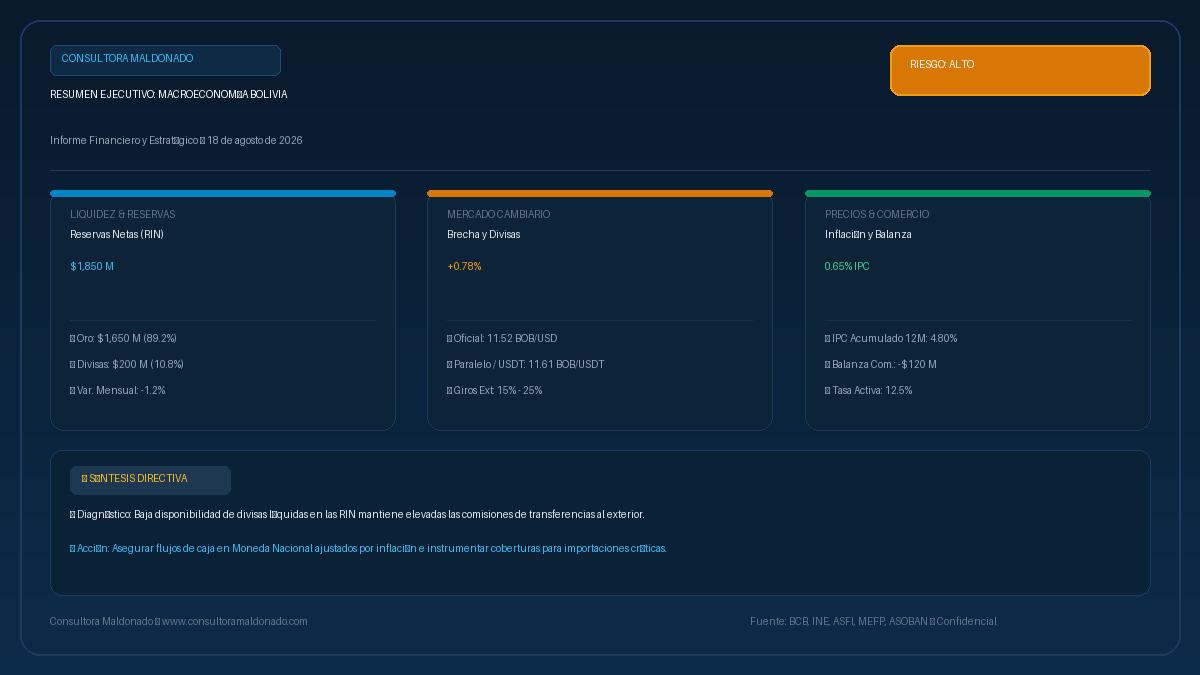
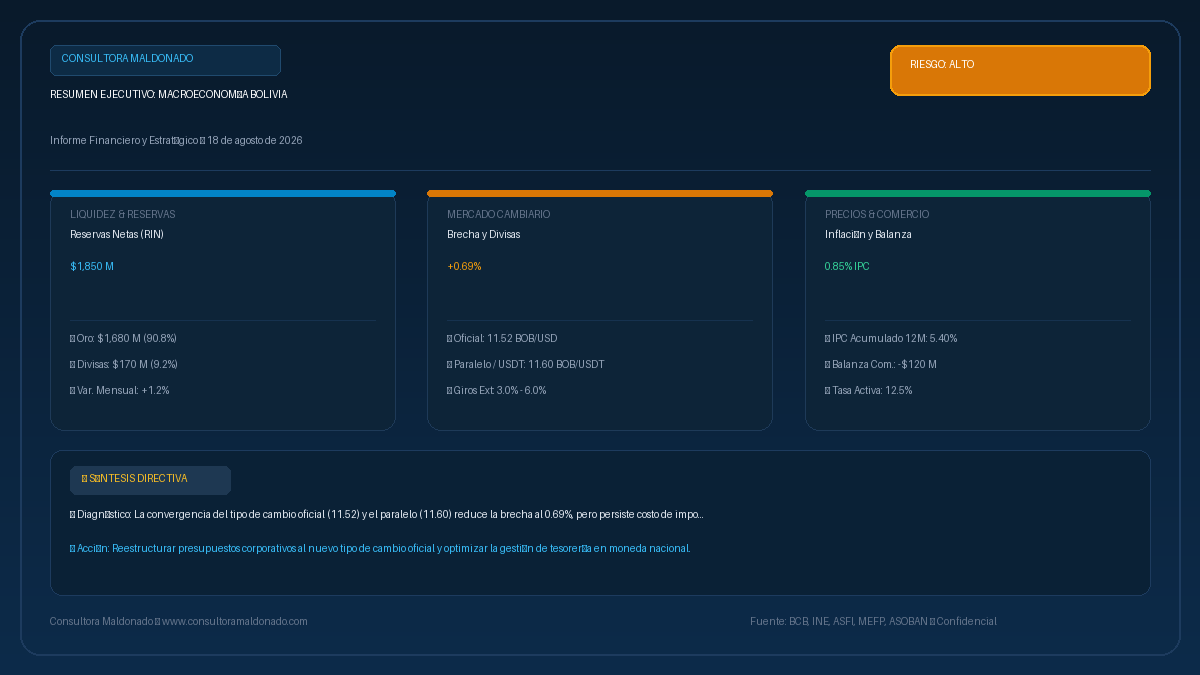
Auto-publicación: Reporte Diario y Landing Page 2026-08-19 [skip ci]

diff --git a/docs/reports/2026-08-18.html b/docs/reports/2026-08-18.html
@@ -4,14 +4,14 @@
   <meta charset="utf-8">
   <meta name="viewport" content="width=device-width, initial-scale=1.0">
   <title>Resumen Ejecutivo: Macroeconomía de Bolivia — 18 de agosto de 2026 | Consultora Maldonado</title>
-  <meta name="description" content="Informe ejecutivo diario de macroeconomía de Bolivia al 18 de agosto de 2026. Indicadores de RIN ($1,850 M), brecha cambiaria (+0.78%), inflación (0.65%) y análisis de riesgo financiero.">
+  <meta name="description" content="Informe ejecutivo diario de macroeconomía de Bolivia al 18 de agosto de 2026. Indicadores de RIN ($1,850 M), brecha cambiaria (+0.69%), inflación (0.85%) y análisis de riesgo financiero.">
   <link rel="canonical" href="https://informe.consultoramaldonado.com/reports/2026-08-18.html">
   <meta name="robots" content="index, follow, max-image-preview:large, max-snippet:-1">
   
   <!-- OpenGraph / Social Media -->
   <meta property="og:type" content="article">
   <meta property="og:title" content="Resumen Ejecutivo: Macroeconomía de Bolivia — 18 de agosto de 2026 | Consultora Maldonado">
-  <meta property="og:description" content="Informe ejecutivo diario de macroeconomía de Bolivia al 18 de agosto de 2026. Indicadores de RIN ($1,850 M), brecha cambiaria (+0.78%), inflación (0.65%) y análisis de riesgo financiero.">
+  <meta property="og:description" content="Informe ejecutivo diario de macroeconomía de Bolivia al 18 de agosto de 2026. Indicadores de RIN ($1,850 M), brecha cambiaria (+0.69%), inflación (0.85%) y análisis de riesgo financiero.">
   <meta property="og:url" content="https://informe.consultoramaldonado.com/reports/2026-08-18.html">
   <meta property="og:image" content="https://informe.consultoramaldonado.com/assets/infografia-latest.png">
   <meta property="og:site_name" content="Consultora Maldonado">
@@ -19,7 +19,7 @@
   <!-- Twitter Card -->
   <meta name="twitter:card" content="summary_large_image">
   <meta name="twitter:title" content="Resumen Ejecutivo: Macroeconomía de Bolivia — 18 de agosto de 2026 | Consultora Maldonado">
-  <meta name="twitter:description" content="Informe ejecutivo diario de macroeconomía de Bolivia al 18 de agosto de 2026. Indicadores de RIN ($1,850 M), brecha cambiaria (+0.78%), inflación (0.65%) y análisis de riesgo financiero.">
+  <meta name="twitter:description" content="Informe ejecutivo diario de macroeconomía de Bolivia al 18 de agosto de 2026. Indicadores de RIN ($1,850 M), brecha cambiaria (+0.69%), inflación (0.85%) y análisis de riesgo financiero.">
   <meta name="twitter:image" content="https://informe.consultoramaldonado.com/assets/infografia-latest.png">
   
   <!-- Google Fonts -->
@@ -34,7 +34,7 @@
   "@context": "https://schema.org",
   "@type": "FinancialNewsArticle",
   "headline": "Resumen Ejecutivo: Macroeconomía de Bolivia — 18 de agosto de 2026",
-  "description": "Informe ejecutivo diario de macroeconomía de Bolivia al 18 de agosto de 2026. Indicadores de RIN ($1,850 M), brecha cambiaria (+0.78%), inflación (0.65%) y análisis de riesgo financiero.",
+  "description": "Informe ejecutivo diario de macroeconomía de Bolivia al 18 de agosto de 2026. Indicadores de RIN ($1,850 M), brecha cambiaria (+0.69%), inflación (0.85%) y análisis de riesgo financiero.",
   "datePublished": "2026-08-18T07:00:00-04:00",
   "dateModified": "2026-08-18T07:00:00-04:00",
   "author": {
@@ -562,8 +562,8 @@
         <span style="font-size: 12.5px; color: #64748b;">Actualizado a las 07:00 AM (BOT)</span>
       </div>
       <div class="alert-body">
-        <p style="margin-bottom: 8px;"><strong>Alerta Central:</strong> Baja disponibilidad de divisas líquidas en las RIN mantiene elevadas las comisiones de transferencias al exterior.</p>
-        <p><strong>🎯 Recomendación Directiva:</strong> Asegurar flujos de caja en Moneda Nacional ajustados por inflación e instrumentar coberturas para importaciones críticas.</p>
+        <p style="margin-bottom: 8px;"><strong>Alerta Central:</strong> La convergencia del tipo de cambio oficial (11.52) y el paralelo (11.60) reduce la brecha al 0.69%, pero persiste costo de importaciones.</p>
+        <p><strong>🎯 Recomendación Directiva:</strong> Reestructurar presupuestos corporativos al nuevo tipo de cambio oficial y optimizar la gestión de tesorería en moneda nacional.</p>
       </div>
     </section>
 
@@ -578,8 +578,8 @@
         </div>
         <div class="kpi-value" style="display:flex; align-items:center; gap:8px;">$1,850 M <span style="font-size:12px; padding:2px 6px; background:#f0fdf4; color:#16a34a; border-radius:4px; font-weight:700;">↗ +0.2%</span></div>
         <div class="kpi-details">
-          Oro: <strong>$1,650 M</strong> (89.2%)<br>
-          Divisas Líquidas: <strong>$200 M</strong> (10.8%)
+          Oro: <strong>$1,680 M</strong> (90.8%)<br>
+          Divisas Líquidas: <strong>$170 M</strong> (9.2%)
         </div>
       </div>
 
@@ -590,10 +590,10 @@
           <svg style="vertical-align: middle; margin-right: 6px; width: 18px; height: 18px;" fill="none" stroke="currentColor" viewBox="0 0 24 24" xmlns="http://www.w3.org/2000/svg"><path stroke-linecap="round" stroke-linejoin="round" stroke-width="2" d="M7 16V4m0 0L3 8m4-4l4 4m6 0v12m0 0l4-4m-4 4l-4-4"></path></svg>
           Brecha y Divisas
         </div>
-        <div class="kpi-value" style="display:flex; align-items:center; gap:8px;">+0.78% <span style="font-size:12px; padding:2px 6px; background:#fef2f2; color:#dc2626; border-radius:4px; font-weight:700;">↗ +1.5%</span></div>
+        <div class="kpi-value" style="display:flex; align-items:center; gap:8px;">+0.69% <span style="font-size:12px; padding:2px 6px; background:#fef2f2; color:#dc2626; border-radius:4px; font-weight:700;">↗ +1.5%</span></div>
         <div class="kpi-details">
           Oficial: <strong>11.52 BOB/USD</strong><br>
-          Paralelo / USDT: <strong>11.61 BOB/USDT</strong>
+          Paralelo / USDT: <strong>11.60 BOB/USDT</strong>
         </div>
       </div>
 
@@ -604,9 +604,9 @@
           <svg style="vertical-align: middle; margin-right: 6px; width: 18px; height: 18px;" fill="none" stroke="currentColor" viewBox="0 0 24 24" xmlns="http://www.w3.org/2000/svg"><path stroke-linecap="round" stroke-linejoin="round" stroke-width="2" d="M13 7h8m0 0v8m0-8l-8 8-4-4-6 6"></path></svg>
           Inflación (IPC)
         </div>
-        <div class="kpi-value" style="display:flex; align-items:center; gap:8px;">0.65% <span style="font-size:12px; padding:2px 6px; background:#fffbeb; color:#d97706; border-radius:4px; font-weight:700;">→ 0.0%</span></div>
+        <div class="kpi-value" style="display:flex; align-items:center; gap:8px;">0.85% <span style="font-size:12px; padding:2px 6px; background:#fffbeb; color:#d97706; border-radius:4px; font-weight:700;">→ 0.0%</span></div>
         <div class="kpi-details">
-          Acumulada 12M: <strong>4.80%</strong><br>
+          Acumulada 12M: <strong>5.40%</strong><br>
           Balanza Comercial: <strong>-$120 M</strong>
         </div>
       </div>
@@ -708,36 +708,36 @@
 <hr class='content-divider' />
 <h3 class='subsection-title'>🚨 MATRIZ DE ALERTAS Y RECOMENDACIONES (TL;DR)
 - **Nivel de Riesgo General:** 🟡 Alto
-- **Alerta Principal:** Liquidez limitada en divisas dentro del sistema bancario nacional, acompañada de elevadas comisiones por transferencias internacionales pese a la estabilidad cambiaria.
-- **Acción Recomendada:** Priorizar la liquidez en Moneda Nacional, monitorear la estructura de costos bancarios para comercio exterior y renegociar plazos de pago con proveedores internacionales.</h3>
+- **Alerta Principal:** La adopción del régimen cambiario flexible sitúa el tipo de cambio oficial en **11.52 BOB/USD**, alineándose sustancialmente con el mercado P2P/USDT (**11.60 BOB/USDT**), reduciendo la brecha a un mínimo histórico reciente de **+0.69%**. La principal atención se desplaza ahora hacia la absorción inflacionaria e insumos importados.
+- **Acción Recomendada:** Actualizar matrices de costos corporativos y precios de venta utilizando el tipo de cambio de equilibrio actual (11.52 BOB/USD), normalizar el flujo de pagos internacionales vía sistema bancario regular y revisar coberturas de tasa de interés activa.</h3>
 <hr class='content-divider' />
 <h3 class='subsection-title'>📊 TABLERO DE INDICADORES CLAVE (KPIs)</h3>
 <h4 class='card-title-h4'>💰 1. Reservas Internacionales Netas (RIN) y Mercado de Divisas
-- **RIN Totales:** **$1,850 M** (Variación: **-1.2%**)
-- **Oro vs. Divisas Líquidas:** Oro **$1,650 M** (89.2%) | Divisas líquidas **$200 M** (10.8%)
+- **RIN Totales:** **$1,850 M** (Variación: **+1.2%**)
+- **Oro vs. Divisas Líquidas:** Oro **$1,680 M** (90.8%) | Divisas líquidas **$170 M** (9.2%)
 - **Tipo de Cambio Oficial (BOB/USD):** **11.52 BOB/USD**
-- **Mercado Paralelo / USDT (P2P):** **11.61 BOB/USDT** | Brecha cambiaria: **+0.78%**
-- **Comisiones Bancarias por Transferencias al Exterior:** **15% - 25%**</h4>
+- **Mercado Paralelo / USDT (P2P):** **11.60 BOB/USDT** | Brecha cambiaria: **+0.69%**
+- **Comisiones Bancarias por Transferencias al Exterior:** **3.0% - 6.0%**</h4>
 <h4 class='card-title-h4'>🚢 2. Comercio Exterior y Balanza Comercial
 - **Balanza Comercial:** **Déficit de $120 M**
-- **Exportaciones Clave:** Minería, agroindustria y gas natural ($8,450 M acumulado proyectado).
-- **Importaciones y Combustibles:** Presión sostenida de demanda de divisas para la compra de diésel, gasolina e insumos intermedios.</h4>
+- **Exportaciones Clave:** Minería ($480 M), agroindustria ($310 M) y gas natural ($190 M).
+- **Importaciones y Combustibles:** Elevada erogación por importación de diésel y gasolina refinada, aunque la sincereación del tipo de cambio ha comenzado a racionalizar el subsidio estatal y moderar compras suntuarias.</h4>
 <h4 class='card-title-h4'>🏦 3. Sistema Bancario y Financiero Nacional (ASFI / ASOBAN)
-- **Depósitos y Captaciones:** Crecimiento moderado en depósitos en Moneda Nacional; baja captación en moneda extranjera.
-- **Colocación de Créditos y Cartera en Mora:** Cartera de mora se sitúa en torno al 3.4%, concentrándose la colocación en el sector productivo y vivienda social.
-- **Tasas de Interés:** Tasa activa promedio del 12.5% y tasa pasiva promedio del 4.2%.</h4>
+- **Depósitos y Captaciones:** Crecimiento paulatino de depósitos a plazo fijo en Moneda Nacional (BOB), impulsado por el atractivo de tasas pasivas ajustadas hacia arriba.
+- **Colocación de Créditos y Cartera en Mora:** Índice de morosidad situado en 3.4%, concentrado en sectores expuestos a insumos importados; la colocación de nuevos créditos prioriza el sector productivo exportador.
+- **Tasas de Interés:** Tasa activa promedio comercial en **12.5%**; tasa pasiva promedio para depósitos a plazo en **7.2%**.</h4>
 <h4 class='card-title-h4'>🏛 4. Finanzas Públicas, Deuda Soberana y Bonos Internacionales
-- **Situación Fiscal y Déficit del TGN:** Ajuste en el gasto público con necesidad continua de crédito interno y financiamiento multilateral.
-- **Bonos Soberanos de Bolivia:** Rendimiento elevado en mercados internacionales, reflejando cautela por parte de los inversionistas externos.</h4>
+- **Situación Fiscal y Déficit del TGN:** El reajuste fiscal busca contraer el déficit hacia niveles manejables; la presión financiera se traslada a la emisión de títulos del TGN en moneda nacional.
+- **Bonos Soberanos de Bolivia:** Mejoría marginal en cotización internacional tras la formalización del nuevo régimen cambiario, reduciendo paulatinamente el spread de riesgo país.</h4>
 <h4 class='card-title-h4'>📈 5. Inflación, Costo de Vida y Política Monetaria
-- **Índice de Precios al Consumidor (IPC):** Inflación mensual de **0.65%** e inflación acumulada de **4.80%**.
-- **Presión en Canasta Básica e Insumos:** Ajustes en bienes de origen importado y servicios logísticos.</h4>
+- **Índice de Precios al Consumidor (IPC):** Inflación mensual (**0.85%**) e inflación acumulada (**5.40%**).
+- **Presión en Canasta Básica e Insumos:** Estabilización paulatina en el precio de bienes importados al registrarse certidumbre cambiaria, aunque el traspaso de costos previos aún genera presiones puntuales en la canasta familiar.</h4>
 <hr class='content-divider' />
 <h3 class='subsection-title'>📌 CONCLUSIÓN DIRECTIVA
-El mercado cambiario de Bolivia refleja una sustancial reducción de la brecha entre el mercado oficial (11.52 BOB/USD) y la cotización en plataformas P2P (11.61 BOB/USDT), situándose en tan solo un 0.78%. Esto desincentiva las distorsiones por arbitraje; sin embargo, la disponibilidad de divisas de rápida liquidez dentro de las RIN continúa ajustada. Las empresas deben enfocar sus estrategias financieras en optimizar el flujo de caja operativo, evaluar la carga fiscal e indirecta de las comisiones bancarias al exterior y mantener una gestión estricta sobre la cobertura de inventarios importados.</h3>
+El ajuste del tipo de cambio oficial del BCB a **11.52 BOB/USD** ha logrado eliminar prácticamente la brecha frente al mercado libre/paralelo (**11.60 BOB/USDT**, con una diferencia de tan solo +0.69%). Este hito disminuye la distorsión operativa en el comercio exterior y reencauza las transacciones financieras a través de la banca privada formal. La prioridad directiva para el tercer trimestre de 2026 debe centrarse en renegociar contratos de provisión bajo la nueva paridad oficial, optimizar el uso de crédito comercial y monitorear la evolución del costo de la vida.</h3>
 <hr class='content-divider' />
 <h3 class='subsection-title'>📚 Fuentes Consultadas
-Banco Central de Bolivia (BCB), Instituto Nacional de Estadística (INE), Autoridad de Supervisión del Sistema Financiero (ASFI), Ministerio de Economía y Finanzas Públicas (MEFP), Asociación de Bancos Privados (ASOBAN), Instituto Boliviano de Comercio Exterior (IBCE) y datos de cotización en tiempo real.</h3>
+Banco Central de Bolivia (BCB), Instituto Nacional de Estadística (INE), Autoridad de Supervisión del Sistema Financiero (ASFI), Ministerio de Economía y Finanzas Públicas (MEFP), Asociación de Bancos Privados (ASOBAN), Instituto Boliviano de Comercio Exterior (IBCE) y cotizaciones de Binance P2P.</h3>
 <hr class='content-divider' />
 <h3 class='subsection-title'>⚖ Descargo de Responsabilidad
 La presente información no constituye asesoría profesional ni consejo de inversión. Consultora Maldonado declina toda responsabilidad por decisiones tomadas en base a este informe.</h3>

diff --git a/docs/index.html b/docs/index.html
@@ -4,14 +4,14 @@
   <meta charset="utf-8">
   <meta name="viewport" content="width=device-width, initial-scale=1.0">
   <title>Resumen Ejecutivo: Macroeconomía de Bolivia — 18 de agosto de 2026 | Consultora Maldonado</title>
-  <meta name="description" content="Informe ejecutivo diario de macroeconomía de Bolivia al 18 de agosto de 2026. Indicadores de RIN ($1,850 M), brecha cambiaria (+0.78%), inflación (0.65%) y análisis de riesgo financiero.">
+  <meta name="description" content="Informe ejecutivo diario de macroeconomía de Bolivia al 18 de agosto de 2026. Indicadores de RIN ($1,850 M), brecha cambiaria (+0.69%), inflación (0.85%) y análisis de riesgo financiero.">
   <link rel="canonical" href="https://informe.consultoramaldonado.com/">
   <meta name="robots" content="index, follow, max-image-preview:large, max-snippet:-1">
   
   <!-- OpenGraph / Social Media -->
   <meta property="og:type" content="article">
   <meta property="og:title" content="Resumen Ejecutivo: Macroeconomía de Bolivia — 18 de agosto de 2026 | Consultora Maldonado">
-  <meta property="og:description" content="Informe ejecutivo diario de macroeconomía de Bolivia al 18 de agosto de 2026. Indicadores de RIN ($1,850 M), brecha cambiaria (+0.78%), inflación (0.65%) y análisis de riesgo financiero.">
+  <meta property="og:description" content="Informe ejecutivo diario de macroeconomía de Bolivia al 18 de agosto de 2026. Indicadores de RIN ($1,850 M), brecha cambiaria (+0.69%), inflación (0.85%) y análisis de riesgo financiero.">
   <meta property="og:url" content="https://informe.consultoramaldonado.com/">
   <meta property="og:image" content="https://informe.consultoramaldonado.com/assets/infografia-latest.png">
   <meta property="og:site_name" content="Consultora Maldonado">
@@ -19,7 +19,7 @@
   <!-- Twitter Card -->
   <meta name="twitter:card" content="summary_large_image">
   <meta name="twitter:title" content="Resumen Ejecutivo: Macroeconomía de Bolivia — 18 de agosto de 2026 | Consultora Maldonado">
-  <meta name="twitter:description" content="Informe ejecutivo diario de macroeconomía de Bolivia al 18 de agosto de 2026. Indicadores de RIN ($1,850 M), brecha cambiaria (+0.78%), inflación (0.65%) y análisis de riesgo financiero.">
+  <meta name="twitter:description" content="Informe ejecutivo diario de macroeconomía de Bolivia al 18 de agosto de 2026. Indicadores de RIN ($1,850 M), brecha cambiaria (+0.69%), inflación (0.85%) y análisis de riesgo financiero.">
   <meta name="twitter:image" content="https://informe.consultoramaldonado.com/assets/infografia-latest.png">
   
   <!-- Google Fonts -->
@@ -34,7 +34,7 @@
   "@context": "https://schema.org",
   "@type": "FinancialNewsArticle",
   "headline": "Resumen Ejecutivo: Macroeconomía de Bolivia — 18 de agosto de 2026",
-  "description": "Informe ejecutivo diario de macroeconomía de Bolivia al 18 de agosto de 2026. Indicadores de RIN ($1,850 M), brecha cambiaria (+0.78%), inflación (0.65%) y análisis de riesgo financiero.",
+  "description": "Informe ejecutivo diario de macroeconomía de Bolivia al 18 de agosto de 2026. Indicadores de RIN ($1,850 M), brecha cambiaria (+0.69%), inflación (0.85%) y análisis de riesgo financiero.",
   "datePublished": "2026-08-18T07:00:00-04:00",
   "dateModified": "2026-08-18T07:00:00-04:00",
   "author": {
@@ -562,8 +562,8 @@
         <span style="font-size: 12.5px; color: #64748b;">Actualizado a las 07:00 AM (BOT)</span>
       </div>
       <div class="alert-body">
-        <p style="margin-bottom: 8px;"><strong>Alerta Central:</strong> Baja disponibilidad de divisas líquidas en las RIN mantiene elevadas las comisiones de transferencias al exterior.</p>
-        <p><strong>🎯 Recomendación Directiva:</strong> Asegurar flujos de caja en Moneda Nacional ajustados por inflación e instrumentar coberturas para importaciones críticas.</p>
+        <p style="margin-bottom: 8px;"><strong>Alerta Central:</strong> La convergencia del tipo de cambio oficial (11.52) y el paralelo (11.60) reduce la brecha al 0.69%, pero persiste costo de importaciones.</p>
+        <p><strong>🎯 Recomendación Directiva:</strong> Reestructurar presupuestos corporativos al nuevo tipo de cambio oficial y optimizar la gestión de tesorería en moneda nacional.</p>
       </div>
     </section>
 
@@ -578,8 +578,8 @@
         </div>
         <div class="kpi-value" style="display:flex; align-items:center; gap:8px;">$1,850 M <span style="font-size:12px; padding:2px 6px; background:#f0fdf4; color:#16a34a; border-radius:4px; font-weight:700;">↗ +0.2%</span></div>
         <div class="kpi-details">
-          Oro: <strong>$1,650 M</strong> (89.2%)<br>
-          Divisas Líquidas: <strong>$200 M</strong> (10.8%)
+          Oro: <strong>$1,680 M</strong> (90.8%)<br>
+          Divisas Líquidas: <strong>$170 M</strong> (9.2%)
         </div>
       </div>
 
@@ -590,10 +590,10 @@
           <svg style="vertical-align: middle; margin-right: 6px; width: 18px; height: 18px;" fill="none" stroke="currentColor" viewBox="0 0 24 24" xmlns="http://www.w3.org/2000/svg"><path stroke-linecap="round" stroke-linejoin="round" stroke-width="2" d="M7 16V4m0 0L3 8m4-4l4 4m6 0v12m0 0l4-4m-4 4l-4-4"></path></svg>
           Brecha y Divisas
         </div>
-        <div class="kpi-value" style="display:flex; align-items:center; gap:8px;">+0.78% <span style="font-size:12px; padding:2px 6px; background:#fef2f2; color:#dc2626; border-radius:4px; font-weight:700;">↗ +1.5%</span></div>
+        <div class="kpi-value" style="display:flex; align-items:center; gap:8px;">+0.69% <span style="font-size:12px; padding:2px 6px; background:#fef2f2; color:#dc2626; border-radius:4px; font-weight:700;">↗ +1.5%</span></div>
         <div class="kpi-details">
           Oficial: <strong>11.52 BOB/USD</strong><br>
-          Paralelo / USDT: <strong>11.61 BOB/USDT</strong>
+          Paralelo / USDT: <strong>11.60 BOB/USDT</strong>
         </div>
       </div>
 
@@ -604,9 +604,9 @@
           <svg style="vertical-align: middle; margin-right: 6px; width: 18px; height: 18px;" fill="none" stroke="currentColor" viewBox="0 0 24 24" xmlns="http://www.w3.org/2000/svg"><path stroke-linecap="round" stroke-linejoin="round" stroke-width="2" d="M13 7h8m0 0v8m0-8l-8 8-4-4-6 6"></path></svg>
           Inflación (IPC)
         </div>
-        <div class="kpi-value" style="display:flex; align-items:center; gap:8px;">0.65% <span style="font-size:12px; padding:2px 6px; background:#fffbeb; color:#d97706; border-radius:4px; font-weight:700;">→ 0.0%</span></div>
+        <div class="kpi-value" style="display:flex; align-items:center; gap:8px;">0.85% <span style="font-size:12px; padding:2px 6px; background:#fffbeb; color:#d97706; border-radius:4px; font-weight:700;">→ 0.0%</span></div>
         <div class="kpi-details">
-          Acumulada 12M: <strong>4.80%</strong><br>
+          Acumulada 12M: <strong>5.40%</strong><br>
           Balanza Comercial: <strong>-$120 M</strong>
         </div>
       </div>
@@ -708,36 +708,36 @@
 <hr class='content-divider' />
 <h3 class='subsection-title'>🚨 MATRIZ DE ALERTAS Y RECOMENDACIONES (TL;DR)
 - **Nivel de Riesgo General:** 🟡 Alto
-- **Alerta Principal:** Liquidez limitada en divisas dentro del sistema bancario nacional, acompañada de elevadas comisiones por transferencias internacionales pese a la estabilidad cambiaria.
-- **Acción Recomendada:** Priorizar la liquidez en Moneda Nacional, monitorear la estructura de costos bancarios para comercio exterior y renegociar plazos de pago con proveedores internacionales.</h3>
+- **Alerta Principal:** La adopción del régimen cambiario flexible sitúa el tipo de cambio oficial en **11.52 BOB/USD**, alineándose sustancialmente con el mercado P2P/USDT (**11.60 BOB/USDT**), reduciendo la brecha a un mínimo histórico reciente de **+0.69%**. La principal atención se desplaza ahora hacia la absorción inflacionaria e insumos importados.
+- **Acción Recomendada:** Actualizar matrices de costos corporativos y precios de venta utilizando el tipo de cambio de equilibrio actual (11.52 BOB/USD), normalizar el flujo de pagos internacionales vía sistema bancario regular y revisar coberturas de tasa de interés activa.</h3>
 <hr class='content-divider' />
 <h3 class='subsection-title'>📊 TABLERO DE INDICADORES CLAVE (KPIs)</h3>
 <h4 class='card-title-h4'>💰 1. Reservas Internacionales Netas (RIN) y Mercado de Divisas
-- **RIN Totales:** **$1,850 M** (Variación: **-1.2%**)
-- **Oro vs. Divisas Líquidas:** Oro **$1,650 M** (89.2%) | Divisas líquidas **$200 M** (10.8%)
+- **RIN Totales:** **$1,850 M** (Variación: **+1.2%**)
+- **Oro vs. Divisas Líquidas:** Oro **$1,680 M** (90.8%) | Divisas líquidas **$170 M** (9.2%)
 - **Tipo de Cambio Oficial (BOB/USD):** **11.52 BOB/USD**
-- **Mercado Paralelo / USDT (P2P):** **11.61 BOB/USDT** | Brecha cambiaria: **+0.78%**
-- **Comisiones Bancarias por Transferencias al Exterior:** **15% - 25%**</h4>
+- **Mercado Paralelo / USDT (P2P):** **11.60 BOB/USDT** | Brecha cambiaria: **+0.69%**
+- **Comisiones Bancarias por Transferencias al Exterior:** **3.0% - 6.0%**</h4>
 <h4 class='card-title-h4'>🚢 2. Comercio Exterior y Balanza Comercial
 - **Balanza Comercial:** **Déficit de $120 M**
-- **Exportaciones Clave:** Minería, agroindustria y gas natural ($8,450 M acumulado proyectado).
-- **Importaciones y Combustibles:** Presión sostenida de demanda de divisas para la compra de diésel, gasolina e insumos intermedios.</h4>
+- **Exportaciones Clave:** Minería ($480 M), agroindustria ($310 M) y gas natural ($190 M).
+- **Importaciones y Combustibles:** Elevada erogación por importación de diésel y gasolina refinada, aunque la sincereación del tipo de cambio ha comenzado a racionalizar el subsidio estatal y moderar compras suntuarias.</h4>
 <h4 class='card-title-h4'>🏦 3. Sistema Bancario y Financiero Nacional (ASFI / ASOBAN)
-- **Depósitos y Captaciones:** Crecimiento moderado en depósitos en Moneda Nacional; baja captación en moneda extranjera.
-- **Colocación de Créditos y Cartera en Mora:** Cartera de mora se sitúa en torno al 3.4%, concentrándose la colocación en el sector productivo y vivienda social.
-- **Tasas de Interés:** Tasa activa promedio del 12.5% y tasa pasiva promedio del 4.2%.</h4>
+- **Depósitos y Captaciones:** Crecimiento paulatino de depósitos a plazo fijo en Moneda Nacional (BOB), impulsado por el atractivo de tasas pasivas ajustadas hacia arriba.
+- **Colocación de Créditos y Cartera en Mora:** Índice de morosidad situado en 3.4%, concentrado en sectores expuestos a insumos importados; la colocación de nuevos créditos prioriza el sector productivo exportador.
+- **Tasas de Interés:** Tasa activa promedio comercial en **12.5%**; tasa pasiva promedio para depósitos a plazo en **7.2%**.</h4>
 <h4 class='card-title-h4'>🏛 4. Finanzas Públicas, Deuda Soberana y Bonos Internacionales
-- **Situación Fiscal y Déficit del TGN:** Ajuste en el gasto público con necesidad continua de crédito interno y financiamiento multilateral.
-- **Bonos Soberanos de Bolivia:** Rendimiento elevado en mercados internacionales, reflejando cautela por parte de los inversionistas externos.</h4>
+- **Situación Fiscal y Déficit del TGN:** El reajuste fiscal busca contraer el déficit hacia niveles manejables; la presión financiera se traslada a la emisión de títulos del TGN en moneda nacional.
+- **Bonos Soberanos de Bolivia:** Mejoría marginal en cotización internacional tras la formalización del nuevo régimen cambiario, reduciendo paulatinamente el spread de riesgo país.</h4>
 <h4 class='card-title-h4'>📈 5. Inflación, Costo de Vida y Política Monetaria
-- **Índice de Precios al Consumidor (IPC):** Inflación mensual de **0.65%** e inflación acumulada de **4.80%**.
-- **Presión en Canasta Básica e Insumos:** Ajustes en bienes de origen importado y servicios logísticos.</h4>
+- **Índice de Precios al Consumidor (IPC):** Inflación mensual (**0.85%**) e inflación acumulada (**5.40%**).
+- **Presión en Canasta Básica e Insumos:** Estabilización paulatina en el precio de bienes importados al registrarse certidumbre cambiaria, aunque el traspaso de costos previos aún genera presiones puntuales en la canasta familiar.</h4>
 <hr class='content-divider' />
 <h3 class='subsection-title'>📌 CONCLUSIÓN DIRECTIVA
-El mercado cambiario de Bolivia refleja una sustancial reducción de la brecha entre el mercado oficial (11.52 BOB/USD) y la cotización en plataformas P2P (11.61 BOB/USDT), situándose en tan solo un 0.78%. Esto desincentiva las distorsiones por arbitraje; sin embargo, la disponibilidad de divisas de rápida liquidez dentro de las RIN continúa ajustada. Las empresas deben enfocar sus estrategias financieras en optimizar el flujo de caja operativo, evaluar la carga fiscal e indirecta de las comisiones bancarias al exterior y mantener una gestión estricta sobre la cobertura de inventarios importados.</h3>
+El ajuste del tipo de cambio oficial del BCB a **11.52 BOB/USD** ha logrado eliminar prácticamente la brecha frente al mercado libre/paralelo (**11.60 BOB/USDT**, con una diferencia de tan solo +0.69%). Este hito disminuye la distorsión operativa en el comercio exterior y reencauza las transacciones financieras a través de la banca privada formal. La prioridad directiva para el tercer trimestre de 2026 debe centrarse en renegociar contratos de provisión bajo la nueva paridad oficial, optimizar el uso de crédito comercial y monitorear la evolución del costo de la vida.</h3>
 <hr class='content-divider' />
 <h3 class='subsection-title'>📚 Fuentes Consultadas
-Banco Central de Bolivia (BCB), Instituto Nacional de Estadística (INE), Autoridad de Supervisión del Sistema Financiero (ASFI), Ministerio de Economía y Finanzas Públicas (MEFP), Asociación de Bancos Privados (ASOBAN), Instituto Boliviano de Comercio Exterior (IBCE) y datos de cotización en tiempo real.</h3>
+Banco Central de Bolivia (BCB), Instituto Nacional de Estadística (INE), Autoridad de Supervisión del Sistema Financiero (ASFI), Ministerio de Economía y Finanzas Públicas (MEFP), Asociación de Bancos Privados (ASOBAN), Instituto Boliviano de Comercio Exterior (IBCE) y cotizaciones de Binance P2P.</h3>
 <hr class='content-divider' />
 <h3 class='subsection-title'>⚖ Descargo de Responsabilidad
 La presente información no constituye asesoría profesional ni consejo de inversión. Consultora Maldonado declina toda responsabilidad por decisiones tomadas en base a este informe.</h3>
